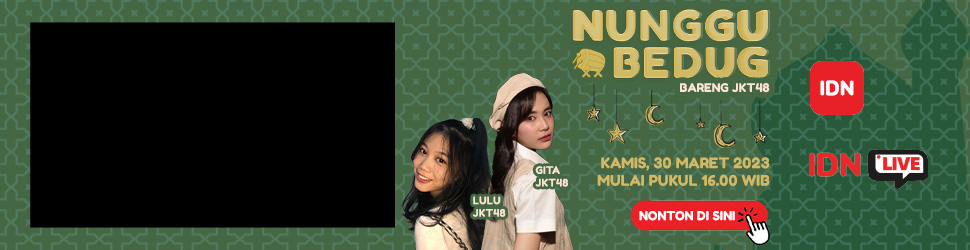
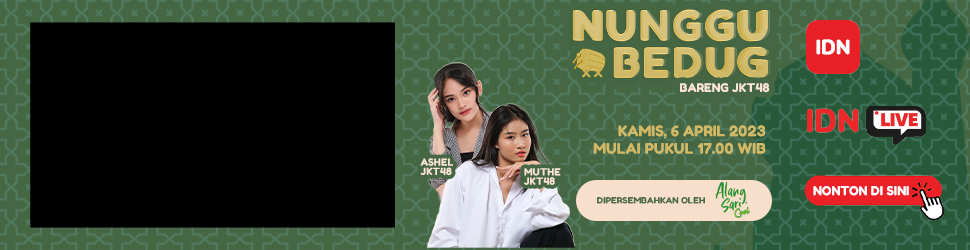
awd

Changed region(s): [[0.4021, 0.056, 0.9897, 1.0]]

diff --git a/idntimes/masthead/internal/idnlive/nunggu-bedug/index-m.html b/idntimes/masthead/internal/idnlive/nunggu-bedug/index-m.html
@@ -975,9 +975,9 @@ h.end=i=function(){s.className=s.className.replace(RegExp(' ?'+y),'')};
             
 <center>
     <div style="height: 250px; width: 300px; position: relative; display: block">
-        <a href="https://www.idn.app/buk_qya5wlhyubizr67" target="_blank" style="position: absolute; width: 300px; height: 250px;"></a>
+        <a href="https://bit.ly/IDNLiveAlangSari" target="_blank" style="position: absolute; width: 300px; height: 250px;"></a>
 
-        <iframe width="300" height="170" src="https://www.idn.app/embed/nunggu-bedug-bareng-jkt48-ep-1-230330143221?auto_play=1&mute=1" frameborder="0" scrolling="no" style="position: absolute; width: 300px; height: 170px; left: 0px; top: 0px; z-index: 1;"></iframe>
+        <iframe width="300" height="170" src="https://www.idn.app/embed/nunggu-bedug-bareng-jkt48-eps-2-230404144951?auto_play=1&mute=1" frameborder="0" scrolling="no" style="position: absolute; width: 300px; height: 170px; left: 0px; top: 0px; z-index: 1;"></iframe>
 
 
         <img src="300x250.jpg" alt="leaderboard" style="max-width: 300px; max-height: 250px;">

diff --git a/idntimes/masthead/internal/idnlive/nunggu-bedug/index.html b/idntimes/masthead/internal/idnlive/nunggu-bedug/index.html
@@ -766,9 +766,9 @@
                 
 <center>
     <div style="height: 250px; width: 970px; position: relative; display: block">
-        <a href="https://www.idn.app/" target="_blank" style="position: absolute; width: 970px; height: 250px;"></a>
+        <a href="https://bit.ly/IDNLiveAlangSari" target="_blank" style="position: absolute; width: 970px; height: 250px;"></a>
 
-        <iframe width="386" height="217" src="https://www.idn.app/embed/nunggu-bedug-bareng-jkt48-ep-1-230330143221?auto_play=1&mute=1" frameborder="0" scrolling="no" style="position: absolute; width: 386px; height: 217px; left: 13px; top: 17px; z-index: 1;"></iframe>
+        <iframe width="386" height="217" src="https://www.idn.app/embed/nunggu-bedug-bareng-jkt48-eps-2-230404144951?auto_play=1&mute=1" frameborder="0" scrolling="no" style="position: absolute; width: 386px; height: 217px; left: 13px; top: 17px; z-index: 1;"></iframe>
 
         <img src="970x250.jpg" alt="leaderboard" style="max-width: 970px; max-height: 250px;">
     </div>
